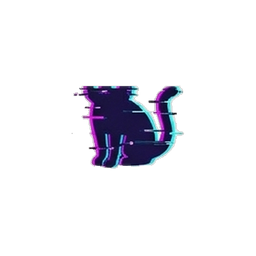
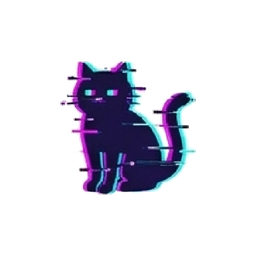
fix: 4개 페르소나 PNG를 PDF 원본에서 정밀 재추출
기존 추출이 카드 경계선/그림자를 콘텐츠로 오인해서 빡빡한 bbox 생성한 문제.
이번엔 PDF 6페이지에서 카드별 좌표 잡고, 카드 안에서:
  - 상단 32%(색상·라벨) 무시
  - 가장자리 4%(그림자/경계선) 무시
  - 어두운(L<140) 또는 채도 높은(sat>60) 픽셀만 고양이로 검출
45% 패딩 적용해서 위·아래 22~33% 여백 확보:

  · spotted-v2:     22.7% / 22.7%
  · lavender-v2:    32.8% / 33.2%
  · chlorophyll-v2: 30.5% / 30.5%
  · cyberpunk-v2:   23.0% / 23.0%

scripts/extract-4-from-pdf.py — 재추출 로직 영구 보존.

Changed region(s): [[0.2188, 0.2188, 0.7812, 0.7812]]

diff --git a/scripts/extract-4-from-pdf.py b/scripts/extract-4-from-pdf.py
@@ -1,0 +1,133 @@
+"""
+PDF 6페이지에서 4개 페르소나(점박이·라벤더·엽록소·사이버펑크) 정밀 재추출.
+
+이전 스크립트들은 카드 경계선을 콘텐츠로 인식해서 잘못된 bbox 생성.
+이번엔:
+  1) 카드 안에서 고양이 영역만 잡기 (카드 상단 35%는 색상+라벨, 무시)
+  2) 카드 가장자리 픽셀 무시 (그림자/경계선이 어두운 픽셀로 잡히는 문제)
+  3) 검출된 cat bbox에 50% 패딩 추가
+"""
+import sys
+sys.stdout.reconfigure(encoding="utf-8")
+from pathlib import Path
+from PIL import Image
+import fitz
+
+ROOT = Path(__file__).resolve().parent.parent
+PDF_PATH = Path(r"c:/Users/LG/Desktop/KaDenNyang_Poetic_Diary.pdf")
+OUT_DIR = ROOT / "public" / "personas"
+
+# PDF 6페이지 200dpi 렌더 (3823x2134) 기준 카드 좌표
+# 행 2 = 점박이, 라벤더, 엽록소, 사이버펑크, 외계
+ROW2 = (980, 1830)
+CARDS = {
+    "spotted":     (75, 760),
+    "lavender":    (775, 1460),
+    "chlorophyll": (1475, 2160),
+    "cyberpunk":   (2175, 2860),
+}
+# 카드 내부 안전 영역 (가장자리 그림자/경계선 무시) — 카드 폭/높이 대비 비율
+EDGE_INSET = 0.04
+# 색상+라벨 영역 (카드 상단 비율)
+TOP_SKIP = 0.32
+
+
+def detect_cat(card: Image.Image) -> tuple:
+    """카드에서 고양이 픽셀 bbox 검출.
+
+    카드 상단 32%(색상·라벨), 가장자리 4%(그림자) 제외하고 안쪽에서만 검출.
+    어두운(L<140) 또는 채도 높은(sat>60) 픽셀이 고양이.
+    """
+    rgb = card.convert("RGB")
+    px = rgb.load()
+    w, h = rgb.size
+    inset_x = int(w * EDGE_INSET)
+    inset_y = int(h * EDGE_INSET)
+    skip_top = int(h * TOP_SKIP)
+
+    min_x, min_y, max_x, max_y = w, h, 0, 0
+    found = False
+    for y in range(max(skip_top, inset_y), h - inset_y):
+        for x in range(inset_x, w - inset_x):
+            r, g, b = px[x, y]
+            mx = max(r, g, b); mn = min(r, g, b)
+            sat = mx - mn
+            L = (r + g + b) / 3
+            if L < 140 or sat > 60:
+                if x < min_x: min_x = x
+                if y < min_y: min_y = y
+                if x > max_x: max_x = x
+                if y > max_y: max_y = y
+                found = True
+    if not found:
+        return None
+    return (min_x, min_y, max_x + 1, max_y + 1)
+
+
+def make_persona_png(card: Image.Image, cat_bbox: tuple, padding_ratio: float = 0.45) -> Image.Image:
+    """검출된 고양이를 padding_ratio 마진으로 256x256 투명 PNG."""
+    cropped = card.crop(cat_bbox).convert("RGBA")
+    # 카드 흰색 배경 → 투명
+    rgb = cropped.convert("RGB")
+    rgb_px = rgb.load()
+    rgba_px = cropped.load()
+    w, h = cropped.size
+    for y in range(h):
+        for x in range(w):
+            r, g, b = rgb_px[x, y]
+            mx = max(r, g, b); mn = min(r, g, b)
+            sat = mx - mn
+            L = (r + g + b) / 3
+            if L >= 235 and sat < 22:
+                rgba_px[x, y] = (0, 0, 0, 0)
+            elif L >= 215 and sat < 16:
+                fade = int(255 * (235 - L) / 20)
+                pr, pg, pb, pa = rgba_px[x, y]
+                rgba_px[x, y] = (pr, pg, pb, max(0, min(pa, fade)))
+
+    # 투명화 후 다시 bbox로 trim — 흰색 마진 제거
+    bbox = cropped.getbbox()
+    if bbox:
+        cropped = cropped.crop(bbox)
+        w, h = cropped.size
+
+    side = max(w, h)
+    pad = int(side * padding_ratio)
+    canvas_side = side + pad * 2
+    canvas = Image.new("RGBA", (canvas_side, canvas_side), (0, 0, 0, 0))
+    canvas.paste(cropped, ((canvas_side - w) // 2, (canvas_side - h) // 2), cropped)
+    canvas = canvas.resize((256, 256), Image.LANCZOS)
+    return canvas
+
+
+def main():
+    doc = fitz.open(PDF_PATH)
+    page = doc[5]  # 6페이지
+    pix = page.get_pixmap(dpi=200)
+    page_img = Image.frombytes("RGB", (pix.width, pix.height), pix.samples)
+    print(f"page 6 rendered: {pix.width}x{pix.height}")
+
+    y0, y1 = ROW2
+    for name, (x0, x1) in CARDS.items():
+        card = page_img.crop((x0, y0, x1, y1))
+        # 디버그용 카드 자체도 저장
+        card.save(ROOT / "tmp-pdf" / f"_card_{name}.png")
+        cat_bbox = detect_cat(card)
+        if not cat_bbox:
+            print(f"{name}: 검출 실패")
+            continue
+        cl, ct, cr, cb = cat_bbox
+        cw = cr - cl
+        ch = cb - ct
+        print(f"{name}: card={card.size}, cat=({cl},{ct},{cr},{cb}) {cw}x{ch}")
+        out = make_persona_png(card, cat_bbox, padding_ratio=0.45)
+        out.save(OUT_DIR / f"{name}-v2.png", optimize=True)
+        # 검수용 — top/bottom margin 확인
+        bbox2 = out.getbbox()
+        if bbox2:
+            l, t, r, b = bbox2
+            print(f"  -> {name}-v2.png: top_margin={t}px({t/256*100:.1f}%), bottom={256-b}px({(256-b)/256*100:.1f}%)")
+
+
+if __name__ == "__main__":
+    main()
